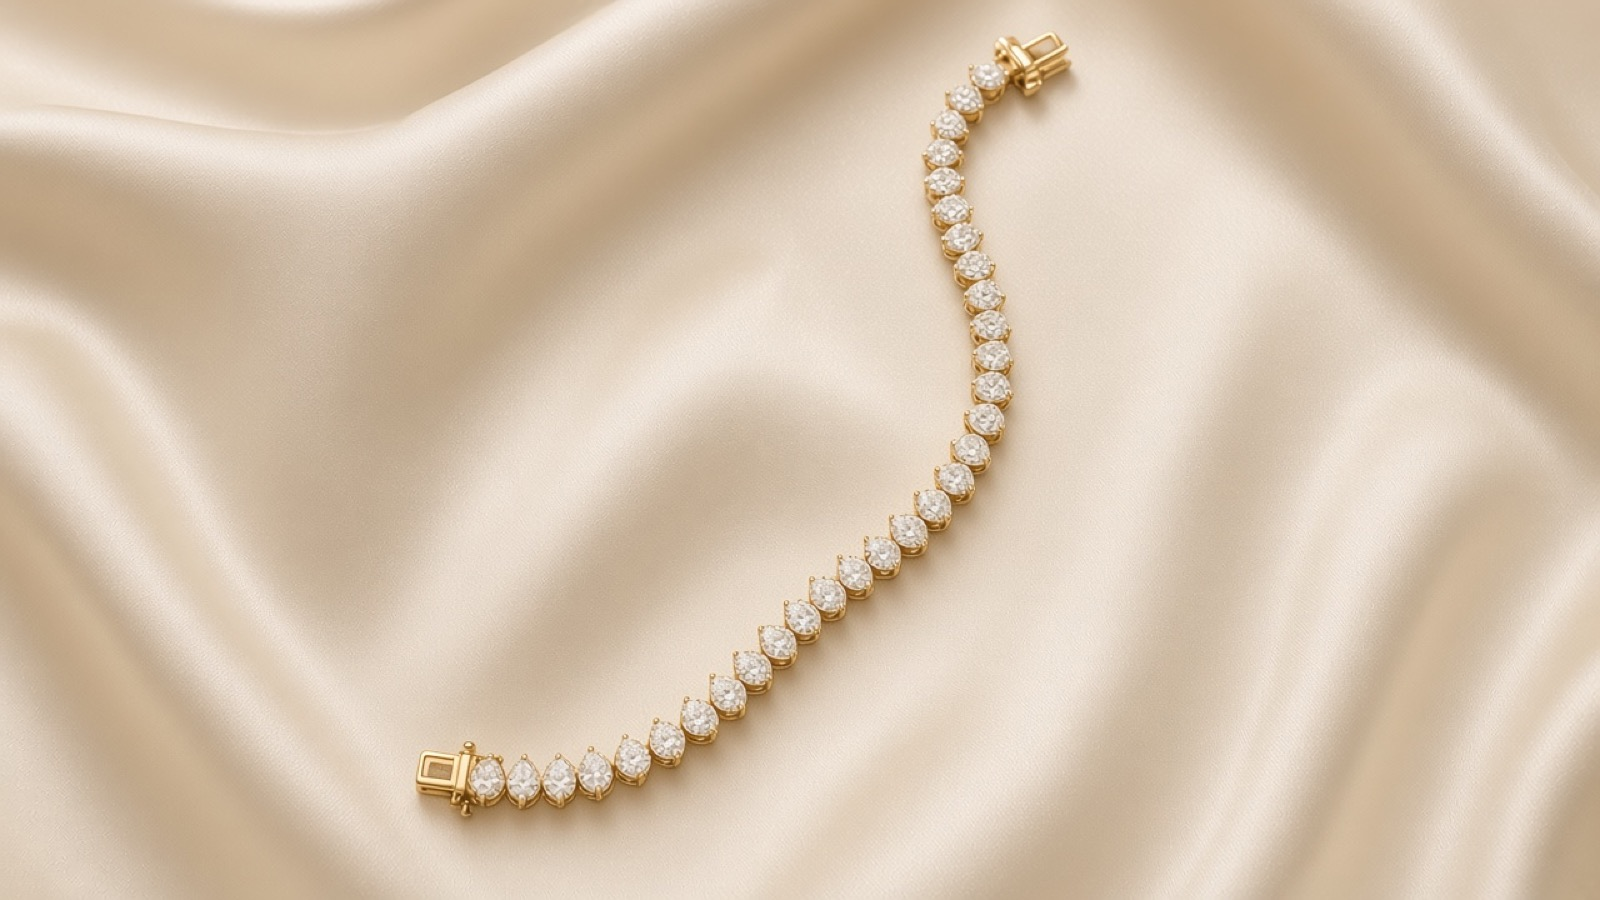
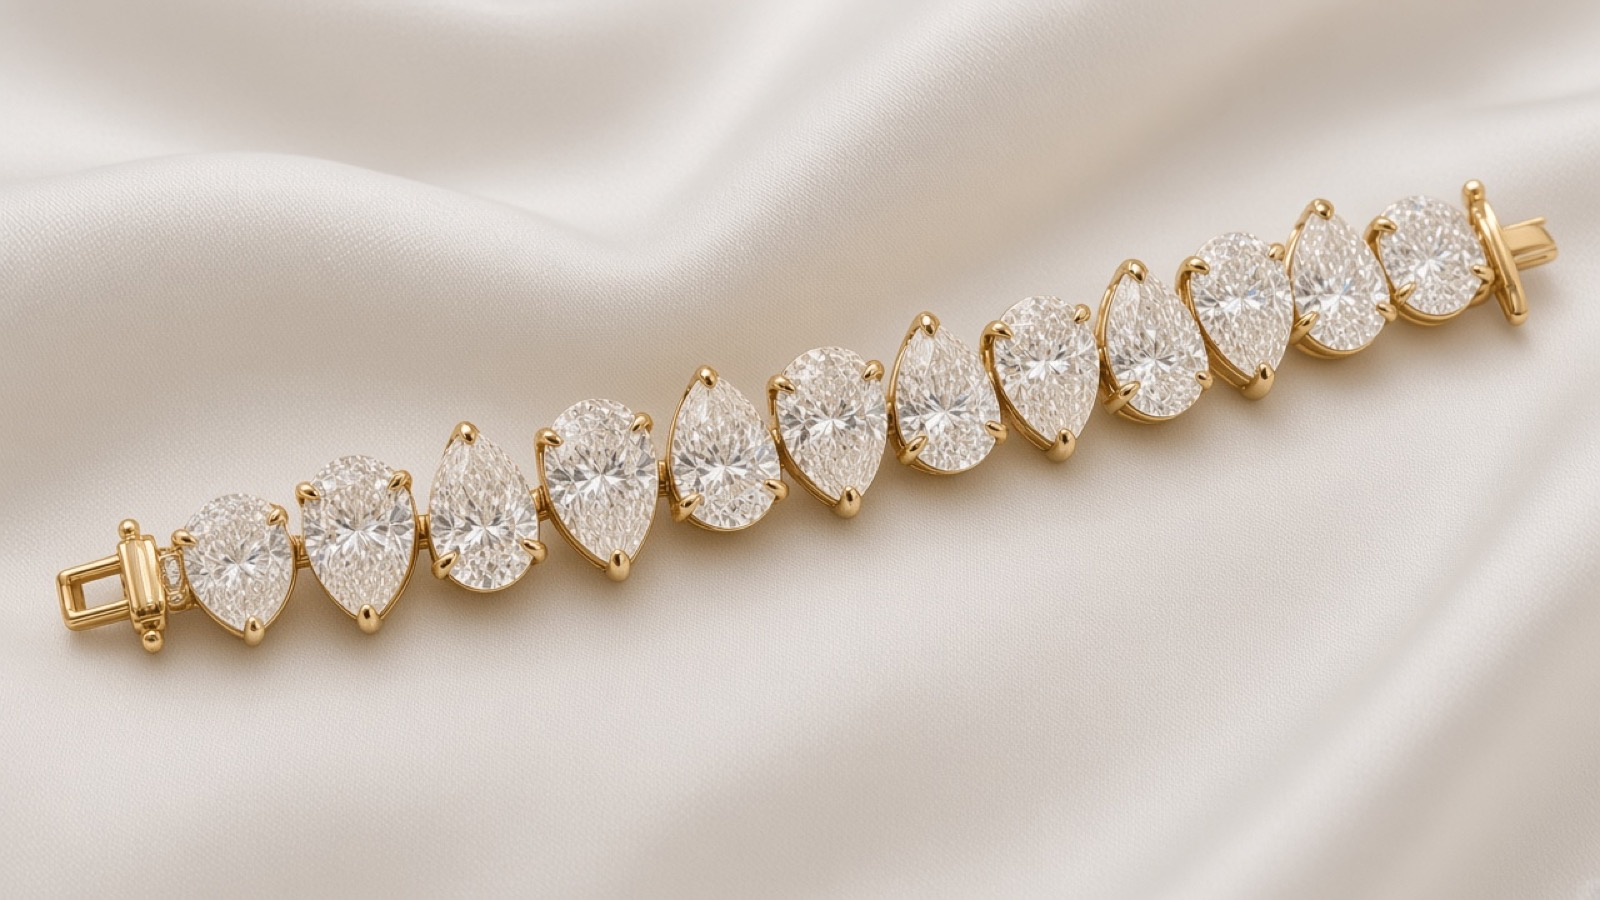
Fix pear tennis ends and alternating stone pattern.
Regenerate pear bracelet angles so clasp joins stay clean pears tip-up/tip-down with no malformed oval or marquise stones.

diff --git a/src/data/catalog.ts b/src/data/catalog.ts
@@ -123,18 +123,29 @@ export const catalogPieces: CatalogPiece[] = [
     title: 'Pear tennis bracelet',
     line: 'bracelets',
     image: 'images/products/pear-tennis/cover.jpg',
-    alt: 'Yellow gold pear-cut diamond tennis bracelet with alternating pears',
-    blurb: 'Alternating pear-cut diamonds in yellow gold. More angles coming as we shoot them.',
+    alt: 'Yellow gold alternating pear-cut diamond tennis bracelet on ivory silk',
+    blurb:
+      'Alternating pear-cut diamonds in yellow gold — tip up / tip down the full length. Full, layout, face, and clasp views.',
     shots: [
       {
         src: 'images/products/pear-tennis/cover.jpg',
-        alt: 'Full pear-cut diamond tennis bracelet on cream silk',
+        alt: 'Full alternating pear tennis bracelet with clean clasps',
         label: 'Full',
       },
       {
         src: 'images/products/pear-tennis/layout.jpg',
-        alt: 'Pear tennis bracelet layout on cream silk',
+        alt: 'Layout of alternating pear tennis bracelet on ivory silk',
         label: 'Layout',
+      },
+      {
+        src: 'images/products/pear-tennis/face.jpg',
+        alt: 'Face detail of alternating pear diamonds in yellow gold',
+        label: 'Face',
+      },
+      {
+        src: 'images/products/pear-tennis/clasp.jpg',
+        alt: 'Clasp end with consistent pear diamonds after the box clasp',
+        label: 'Clasp',
       },
     ],
   },
